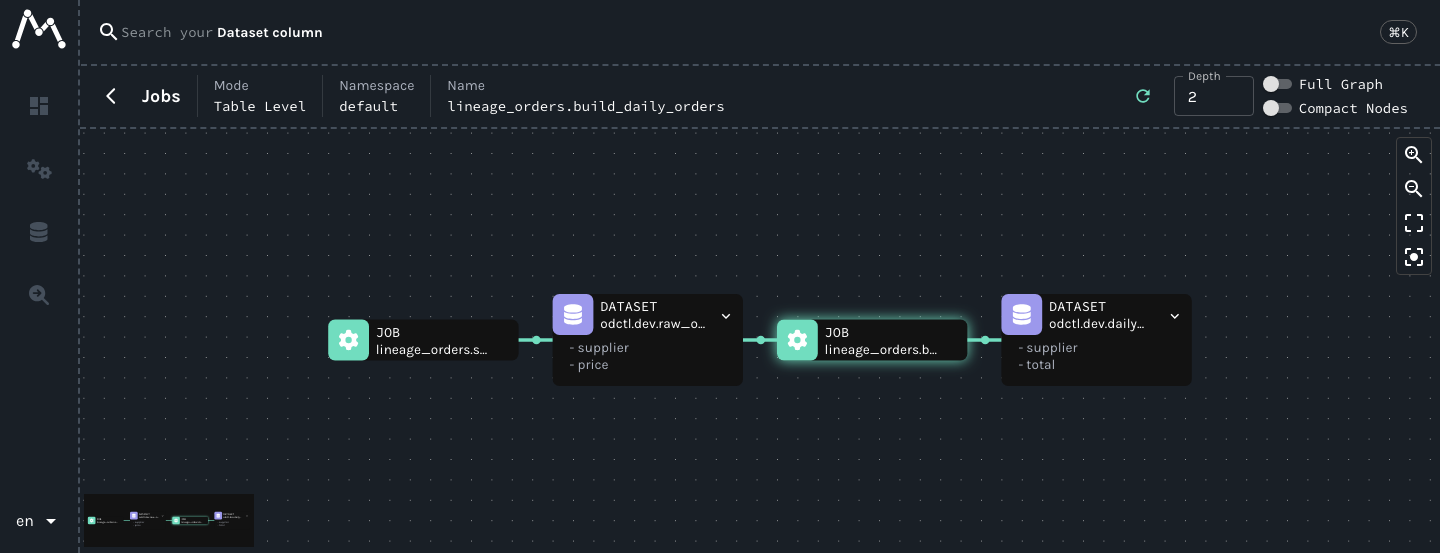
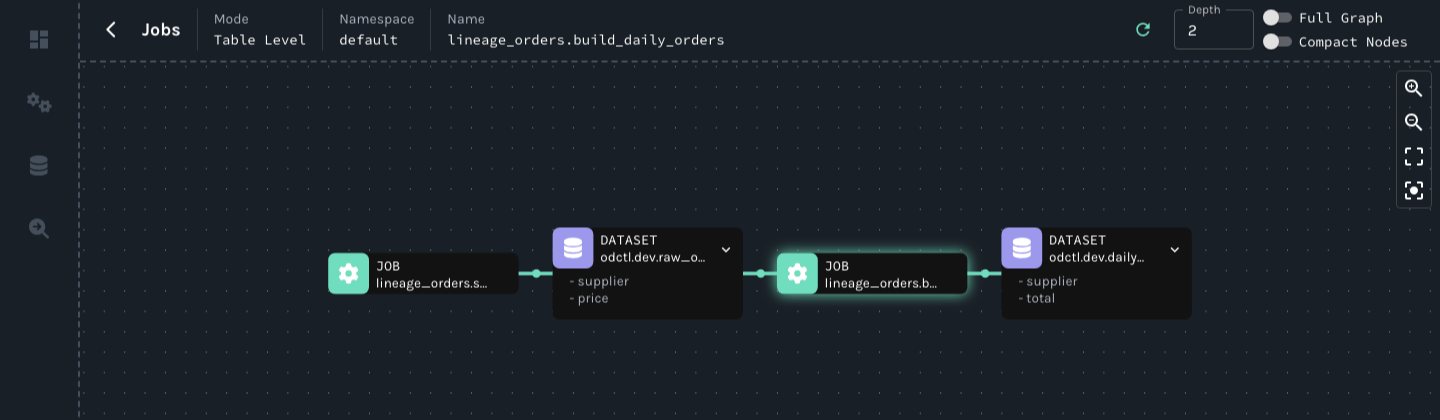
Checklist fixes: label comments, sentence shape, the alert window named once, a docstring and the Marquez crop

diff --git a/docs/snippets/telemetry/drift_check.py b/docs/snippets/telemetry/drift_check.py
@@ -20,6 +20,14 @@ with DAG(
 
     @task
     def check_drift(params=None):
+        """Fail the run when column x of the current data has drifted from the reference.
+
+        Args:
+            params: The run's parameters. `shift` moves the current data's mean.
+
+        Raises:
+            ValueError: When the Wasserstein distance is above DRIFT_THRESHOLD.
+        """
         reference = pd.DataFrame({"x": np.random.default_rng(7).normal(0, 1, 500)})
         current = pd.DataFrame(
             {"x": np.random.default_rng(8).normal(params["shift"], 1, 500)}

diff --git a/docs/guides/telemetry.md b/docs/guides/telemetry.md
@@ -56,7 +56,7 @@ An alert rule is a query that Grafana runs against Prometheus every minute, and 
 The shipped rule is [`airflow.yaml`](https://github.com/jaehyeon-kim/odctl/blob/main/src/odctl/resources/grafana/alerting/airflow.yaml) in `.odctl/grafana/alerting/`. Grafana loads every file in that folder when it starts, so restart `telemetry` after you add or edit a file. Grafana marks these rules Provisioned and does not let you edit them in its UI. This lists the rules that Grafana loaded:
 
 ```bash title="docs/snippets/telemetry/commands.sh:alert-rules"
-# The title of each alert rule that Grafana loaded.
+# Title of each alert rule that Grafana loaded.
 curl -s -u user:password http://127.0.0.1:3004/api/v1/provisioning/alert-rules \
   | python3 -c '
 import json, sys
@@ -68,9 +68,9 @@ for rule in json.load(sys.stdin):
 Airflow DAG run failed
 ```
 
-The rule counts the DAG runs that failed in the last 5 minutes for each DAG, from the metric `airflow_dagrun_duration_failed_milliseconds` that Airflow sends, and fires for each DAG with at least one. The 5 minutes, the evaluation every minute and the labels are set in the file and can change. The rule has no waiting period, so it fires on the first evaluation that sees a failure.
+The rule counts the DAG runs that failed in the last 5 minutes for each DAG, from the metric `airflow_dagrun_duration_failed_milliseconds` that Airflow sends, and fires for each DAG with at least one. These 5 minutes are the rule's window. The window, the evaluation every minute and the labels are set in the file and can change. The rule has no waiting period, so it fires on the first evaluation that sees a failure.
 
-When `telemetry` starts while Airflow is already running, Prometheus has no earlier sample of each series, so the rule also fires, for 5 minutes, for each DAG that has failed since Airflow started. A restart keeps Prometheus's samples, so it does not do this.
+When `telemetry` starts while Airflow is already running, Prometheus has no earlier sample of each series, so the rule also fires, for one window, for each DAG that has failed since Airflow started. A restart keeps Prometheus's samples, so it does not do this.
 
 To see it fire, run a DAG that fails. This DAG checks for [data drift](evidently-reports.md): it compares a column of current data with a reference dataset and fails when the column has drifted.
 
@@ -78,7 +78,7 @@ It measures the change with Evidently's `ValueDrift` metric and the method `wass
 
 The parameter `shift` moves the mean of the current data away from the reference's, in standard deviations, so the default run drifts and a run with `shift` 0 does not. Save it as `drift_check.py`:
 
-```python title="docs/snippets/telemetry/drift_check.py" hl_lines="10 27 31 32"
+```python title="docs/snippets/telemetry/drift_check.py" hl_lines="10 35 39 40"
 import numpy as np
 import pandas as pd
 import pendulum
@@ -101,6 +101,14 @@ with DAG(
 
     @task
     def check_drift(params=None):
+        """Fail the run when column x of the current data has drifted from the reference.
+
+        Args:
+            params: The run's parameters. `shift` moves the current data's mean.
+
+        Raises:
+            ValueError: When the Wasserstein distance is above DRIFT_THRESHOLD.
+        """
         reference = pd.DataFrame({"x": np.random.default_rng(7).normal(0, 1, 500)})
         current = pd.DataFrame(
             {"x": np.random.default_rng(8).normal(params["shift"], 1, 500)}
@@ -148,7 +156,7 @@ docker exec airflow airflow dags trigger drift_check --run-id drifted
 The last command prints the new run in state `queued`. The task fails after a few seconds, so list the runs with `docker exec airflow airflow dags list-runs drift_check` until `drifted` has the state `failed`. Airflow sends its metrics to the collector every 15 seconds, set by `OTEL_METRIC_EXPORT_INTERVAL` in `.odctl/compose-orch.yml`. Grafana evaluates the rule every minute, so the alert appears within about 2 minutes. This lists the alerts that are firing:
 
 ```bash title="docs/snippets/telemetry/commands.sh:alert-state"
-# The alerts that are firing, with the DAG each names.
+# Alerts that are firing, with the DAG each names.
 curl -s -u user:password http://127.0.0.1:3004/api/prometheus/grafana/api/v1/alerts \
   | python3 -c '
 import json, sys
@@ -165,25 +173,24 @@ The alert carries the label `dag_id` with the DAG that failed. Grafana calls the
 
 ![Grafana alert instance of the rule Airflow DAG run failed, in state Alerting with the label dag_id drift_check and the destination empty](../images/grafana-alert.png){ .screenshot }
 
-The destination is `empty`, Grafana's default contact point, which sends nothing, because odctl configures no contact point of its own. A contact point is where Grafana sends a notification, such as an email address or a chat channel. A firing alert therefore shows only in Grafana.
+The destination is `empty`, Grafana's default contact point. It sends nothing, because odctl configures no contact point of its own. A contact point is where Grafana sends a notification, such as an email address or a chat channel. A firing alert therefore shows only in Grafana.
 
 The summary under the rule's title is the template, because one rule covers every DAG. Each alert has it filled in with its DAG, which the instance's details and the alerts API show.
 
-To be told when an alert fires, you need a contact point and a notification policy that routes alerts to it. Grafana's database lives inside the `otel-lgtm` container and has no volume, so a contact point made in the UI is lost at `odctl down`. Keep them in a file instead:
+To be told when an alert fires, you need a contact point and a notification policy that routes alerts to it. Grafana's database lives inside the `otel-lgtm` container and has no volume, so `odctl down` deletes a contact point made in the UI. Keep them in a file instead. Grafana loads a contact point and a notification policy from a file in `.odctl/grafana/alerting/` at each start, in the format of [Grafana's file provisioning](https://grafana.com/docs/grafana/latest/alerting/set-up/provision-alerting-resources/file-provisioning/). Add the file and restart `telemetry`, as above.
 
-- Grafana loads a contact point and a notification policy from a file in `.odctl/grafana/alerting/` at each start, in the format of [Grafana's file provisioning](https://grafana.com/docs/grafana/latest/alerting/set-up/provision-alerting-resources/file-provisioning/). Add the file and restart `telemetry`, as above.
-- Deleting a file and restarting leaves its rule, contact point or policy in Grafana. `odctl down telemetry` and then `odctl up telemetry` remove them.
+Deleting a file and restarting leaves its rule, contact point or policy in Grafana. `odctl down telemetry` and then `odctl up telemetry` remove them.
 
 To tell whoever receives the alert what to do, add a `runbook_url` annotation to the rule in its file.
 
-The alert clears when the failed run is more than 5 minutes old. A run below the threshold raises none. This triggers a run named `steady` with `shift` 0 and prints the new run in state `queued`. The second command prints the distance of each run from its task log:
+The alert clears when the failed run falls out of the window. A run below the threshold raises none. This triggers a run named `steady` with `shift` 0 and prints the new run in state `queued`. The second command prints the distance of each run from its task log:
 
 ```bash title="docs/snippets/telemetry/commands.sh:drift-steady"
 docker exec airflow airflow dags trigger drift_check --run-id steady --conf '{"shift": 0}'
 ```
 
 ```bash title="docs/snippets/telemetry/commands.sh:drift-score"
-# The distance each run printed, from its task log.
+# Distance each run printed, from its task log.
 docker exec airflow sh -c 'cd /opt/airflow/logs/dag_id=drift_check && grep -o "Wasserstein distance[^\"]*" run_id=*/task_id=check_drift/attempt=1.log'
 ```
 
@@ -200,7 +207,7 @@ A rule of your own is another file in the same folder. Copy it in and restart `t
 
 The query counts each series in one of two ways:
 
-- A series that began within the last hour counts by its last value, which is all its tokens since it began. This also holds when the application stopped sending more than 5 minutes ago.
+- A series that began within the last hour counts by its last value, which is all its tokens since it began, even after the application stops sending.
 - A series that is more than an hour old counts by its increase over the hour, while the application exports at least every 5 minutes, as the OpenTelemetry SDKs do by default.
 
 `increase()` counts only the change after a series' first sample. Alone, it would miss the tokens in that first sample, and every token of an application that exports once. When `telemetry` starts while the application is already running, the first hour counts all tokens since the application started.
@@ -223,7 +230,7 @@ groups:
         title: Model call tokens over budget
         condition: C
         data:
-          # The tokens that gen_ai.client.token.usage recorded in the last hour, input
+          # Tokens that gen_ai.client.token.usage recorded in the last hour, input
           # and output together. Prometheus keeps the histogram's sum in the series
           # gen_ai_client_token_usage_sum. A series that began within the last hour
           # counts by its last value, which is all its tokens since it began, also

diff --git a/docs/guides/lineage.md b/docs/guides/lineage.md
@@ -1,6 +1,10 @@
 # OpenLineage and Marquez
 
-The `lineage` profile runs Marquez: an API that receives OpenLineage events and keeps jobs, runs and datasets on PostgreSQL, and a web UI that draws the lineage graph. OpenLineage is an open standard for events that say which job read and wrote which datasets in each run. Anything that sends OpenLineage events over HTTP can report to Marquez. Airflow, a Spark job and `feast apply` can each send them, and a section below sets up each one. The end-to-end tests run the commands below on every release, except the `up` commands and the `.env` edit: the workflow starts each profile itself and sets the transport in its shell.
+The `lineage` profile runs Marquez. Marquez has an API that receives OpenLineage events and keeps jobs, runs and datasets on PostgreSQL, and a web UI that draws the lineage graph. OpenLineage is an open standard for events that say which job read and wrote which datasets in each run.
+
+Anything that sends OpenLineage events over HTTP can report to Marquez. A section below sets up each of Airflow, a Spark job and `feast apply`.
+
+The end-to-end tests run the commands below on every release. They skip the `up` commands and the `.env` edit, because the workflow starts each profile itself and sets the transport in its shell.
 
 This guide builds on [Getting Started](../getting-started.md).
 
@@ -60,7 +64,7 @@ The UI draws the job between the datasets it read and wrote:
 
 ## Lineage from Airflow
 
-Airflow's OpenLineage provider is installed in the `airflow` image. It sends a `START` event and a `COMPLETE` event for each DAG run and each task, and for a SQL task it reads the tables from the SQL. It sends events only when it has a transport, which is the setting that says where to send them. odctl leaves the transport empty, so with no change Airflow sends nothing and logs no error. This section builds on [Airflow DAGs from S3](airflow-dags.md), which explains how to upload and run a DAG.
+The `airflow` image includes Airflow's OpenLineage provider. It sends a `START` event and a `COMPLETE` event for each DAG run and each task, and for a SQL task it reads the tables from the SQL. It sends events only when it has a transport, which is the setting that says where to send them. odctl leaves the transport empty, so with no change Airflow sends nothing and logs no error. This section builds on [Airflow DAGs from S3](airflow-dags.md), which explains how to upload and run a DAG.
 
 Set the transport in the `.env` key `AIRFLOW_OPENLINEAGE_TRANSPORT`. Its value is JSON: `type` is `http`, and `url` is the address of `marquez-api` inside the `odctl` network, from the table at the top of this page. `sed -i.bak` works with both GNU and macOS `sed`, and keeps the original as `.env.bak`. Run this in the folder that holds your `.odctl` workspace, then start Airflow:
 
@@ -116,7 +120,7 @@ docker exec airflow airflow connections add odctl_postgres \
   --conn-schema odctl --conn-port 5432
 ```
 
-The command prints a few `SyntaxWarning` lines, which do not affect the result, then ``Successfully added `conn_id`=odctl_postgres`` and a table with the connection. Copy the DAG into the Airflow container and upload it to `s3://airflow/dags`, as [Airflow DAGs from S3](airflow-dags.md#upload-a-dag) does:
+The command prints a few `SyntaxWarning` lines, then ``Successfully added `conn_id`=odctl_postgres`` and a table with the connection. The warnings do not affect the result. Copy the DAG into the Airflow container and upload it to `s3://airflow/dags`, as [Airflow DAGs from S3](airflow-dags.md#upload-a-dag) does:
 
 ```bash title="docs/snippets/lineage/commands.sh:airflow-upload"
 docker cp lineage_orders.py airflow:/tmp/lineage_orders.py
@@ -137,7 +141,7 @@ docker exec airflow airflow dags trigger lineage_orders
 The last command prints the new run in state `queued`. Airflow sends the events while the run executes, and the run takes a few seconds, so list the runs until the state is `success` with `docker exec airflow airflow dags list-runs lineage_orders`. Then read the jobs back. A namespace groups jobs and datasets in Marquez. This lists the jobs of one namespace from the same API that [Read the Lineage Back](#read-the-lineage-back) uses, cut to each job's name and the datasets it read and wrote:
 
 ```bash title="docs/snippets/lineage/commands.sh:airflow-read"
-# The jobs of the namespace default, with the datasets each read and wrote.
+# Jobs of the namespace default, with the datasets each read and wrote.
 curl -s http://127.0.0.1:5002/api/v1/namespaces/default/jobs | python3 -c '
 import json, sys
 for job in json.load(sys.stdin)["jobs"]:
@@ -150,9 +154,10 @@ lineage_orders.build_daily_orders ['odctl.dev.raw_orders'] ['odctl.dev.daily_ord
 lineage_orders.seed_raw_orders [] ['odctl.dev.raw_orders']
 ```
 
-Airflow's provider names each job after the DAG and the task, and each dataset after the database, the schema and the table. Three more facts explain the output:
+Airflow's provider names each job after the DAG and the task, and each dataset after the database, the schema and the table. Four more facts explain the output:
 
-- Airflow puts its jobs in the namespace `default`. To change it, set `AIRFLOW__OPENLINEAGE__NAMESPACE` in `.odctl/compose-orch.yml` and run `odctl recreate airflow`. Airflow gives each table the namespace `postgres://postgres:5432`, the address of the database.
+- Airflow puts its jobs in the namespace `default`, which `AIRFLOW__OPENLINEAGE__NAMESPACE` in `.odctl/compose-orch.yml` changes after `odctl recreate airflow`.
+- Airflow gives each table the namespace `postgres://postgres:5432`, the address of the database.
 - The DAG is a third job, `lineage_orders`, with no datasets, so the read-back leaves it out.
 - The first task writes `raw_orders` and the second reads it, so the graph joins the two jobs through that table.
 
@@ -164,7 +169,7 @@ The graph runs from `seed_raw_orders` through the table `raw_orders` to `build_d
 
 ## Lineage from Spark
 
-The OpenLineage Spark listener is a Spark listener, a class that Spark calls as a job runs. It sends the events with the datasets each statement read and wrote. Its jar, `openlineage.jar`, is in `/mnt/shared-deps/spark`, which the Spark containers already put on the classpath, so the job needs no `--packages` option. This section builds on [Spark](spark.md). Start the profile:
+The OpenLineage Spark listener is a Spark listener, a class that Spark calls as a job runs. It sends the events with the datasets each statement read and wrote. The listener's jar is `openlineage.jar` in `/mnt/shared-deps/spark`. The Spark containers already put that folder on the classpath, so the job needs no `--packages` option. This section builds on [Spark](spark.md). Start the profile:
 
 ```bash title="docs/snippets/lineage/commands.sh:spark-up"
 odctl up spark-lite
@@ -209,15 +214,17 @@ docker exec spark-master /opt/spark/bin/spark-submit \
 
 Each setting does one thing:
 
-- `--driver-class-path` puts `openlineage.jar` first on the driver's classpath, ahead of the other jars of the shared volume. The OpenMetadata agent jar in that folder holds a second copy of the listener's classes, and with Spark's default classpath the driver loads that copy: the listener fails with `NoSuchMethodError`, Spark stops the session, and the job fails. The value repeats the classpath from `spark/spark-defaults.conf` in the workspace, with the jar in front.
+- `--driver-class-path` puts `openlineage.jar` first on the driver's classpath, ahead of the other jars of the shared volume.
 - `spark.extraListeners` names the listener class, so Spark calls it for every statement.
 - `spark.openlineage.transport.type` and `spark.openlineage.transport.url` send the events over HTTP to `marquez-api`.
 - `spark.openlineage.namespace` is the namespace of the jobs in Marquez.
 
+The jar comes first because the OpenMetadata agent jar in the same folder holds a second copy of the listener's classes. With Spark's default classpath the driver loads that copy. The listener then fails with `NoSuchMethodError`, Spark stops the session, and the job fails. The `--driver-class-path` value repeats the classpath from `spark/spark-defaults.conf` in the workspace, with the jar in front.
+
 The job prints Spark's usual log, with some OpenLineage warnings and one `ContextFactory` error line, and the events still reach Marquez. Spark sends them as each statement ends, so read the jobs of the namespace `odctl` back a few seconds after the job ends:
 
 ```bash title="docs/snippets/lineage/commands.sh:spark-read"
-# The jobs of the namespace odctl, with the datasets each read and wrote.
+# Jobs of the namespace odctl, with the datasets each read and wrote.
 curl -s http://127.0.0.1:5002/api/v1/namespaces/odctl/jobs | python3 -c '
 import json, sys
 for job in json.load(sys.stdin)["jobs"]:
@@ -279,7 +286,7 @@ Deploying infrastructure for driver_stats
 The first line shows that the OpenLineage client is on. Read the jobs of the namespace `lineage_demo`, the project name, back:
 
 ```bash title="docs/snippets/lineage/commands.sh:feast-read"
-# The jobs of the namespace lineage_demo, the name of the Feast project, with the datasets each read and wrote.
+# Jobs of the namespace lineage_demo, the name of the Feast project, with the datasets each read and wrote.
 curl -s http://127.0.0.1:5002/api/v1/namespaces/lineage_demo/jobs | python3 -c '
 import json, sys
 for job in json.load(sys.stdin)["jobs"]:

diff --git a/docs/how-it-works.md b/docs/how-it-works.md
@@ -162,7 +162,7 @@ A restart keeps the container, so it does not apply an edited compose file or `.
 odctl recreate catalog --pull
 ```
 
-Recreating discards the data inside those containers, with the exceptions that [Where Data Lives](#where-data-lives) lists. `odctl restart <profile>` is enough for files a service reads when it starts, such as `trino/rules.json`, the Grafana dashboards and the Grafana alert rules, though a deleted alerting file needs `odctl down telemetry` and `odctl up telemetry`, as [Add an Alert Rule](guides/telemetry.md#add-an-alert-rule) explains.
+Recreating discards the data inside those containers, with the exceptions that [Where Data Lives](#where-data-lives) lists. `odctl restart <profile>` is enough for files a service reads when it starts, such as `trino/rules.json`, the Grafana dashboards and the Grafana alert rules. Removing an alerting file needs `odctl down telemetry` and then `odctl up telemetry`, as [Add an Alert Rule](guides/telemetry.md#add-an-alert-rule) explains.
 
 ### Examples
 
